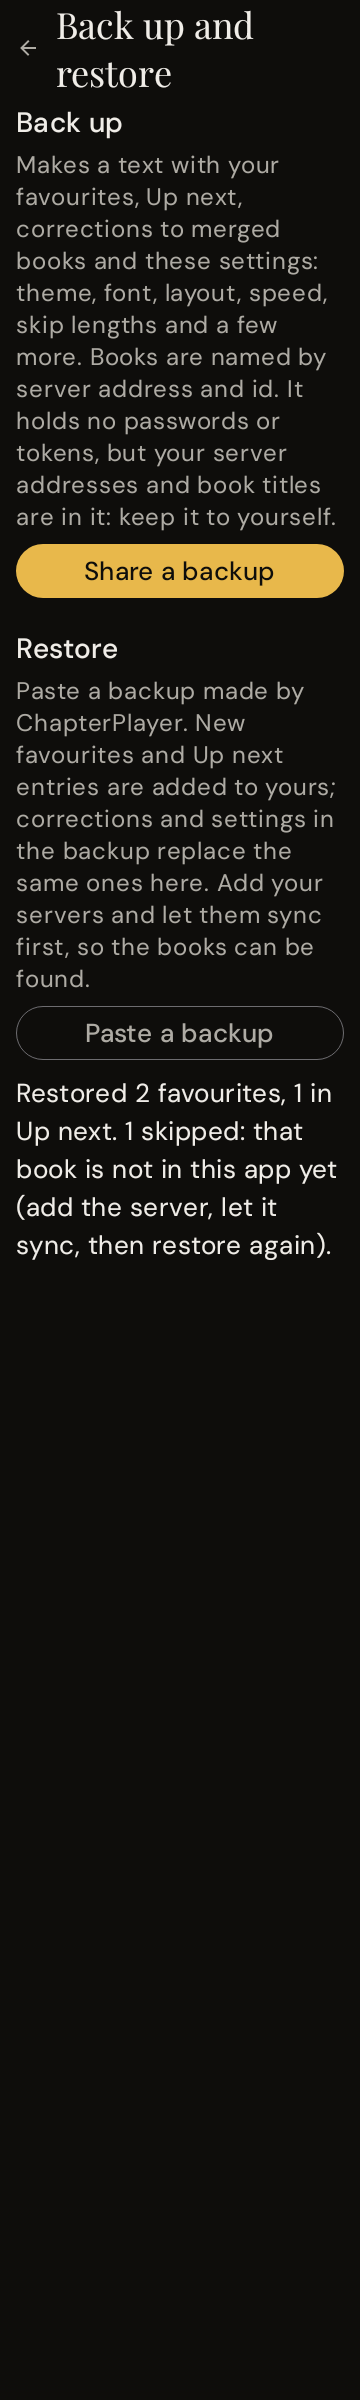
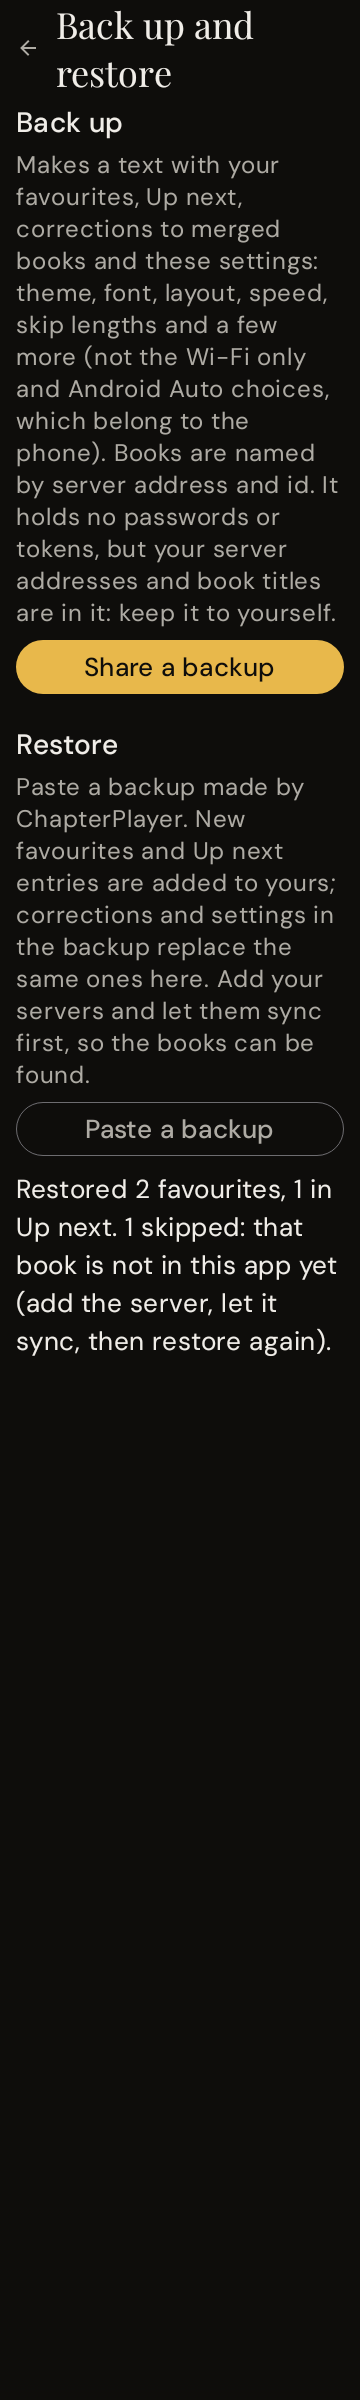
R27 review fixes: a text must name the backup format, corrections need an exact match, phone-bound settings stay out
Claude-Session: https://claude.ai/code/session_012y7soafHxywyzp4CSwQggB

Changed region(s): [[0.0306, 0.125, 0.9472, 0.5625]]

diff --git a/shared/src/commonMain/kotlin/com/chapterplayer/domain/backup/Backup.kt b/shared/src/commonMain/kotlin/com/chapterplayer/domain/backup/Backup.kt
@@ -2,6 +2,9 @@ package com.chapterplayer.domain.backup
 
 import kotlinx.serialization.Serializable
 import kotlinx.serialization.json.Json
+import kotlinx.serialization.json.JsonObject
+import kotlinx.serialization.json.JsonPrimitive
+import kotlinx.serialization.json.contentOrNull
 
 /** The name and version written at the top of every backup, so an import can tell what it was given. */
 const val BACKUP_FORMAT = "chapterplayer-backup"
@@ -27,14 +30,15 @@ data class BackupBook(
 /** A correction of the "same book on several servers" matching: [kind] is "SPLIT" or "MERGE". */
 @Serializable data class BackupCorrection(val a: BackupBook, val b: BackupBook, val kind: String)
 
-/** The simple settings that move between phones; a null field is left as it is on import. */
+/**
+ * The simple settings that move between phones; a null field is left as it is on import. Settings that belong to the
+ * phone (Wi-Fi only downloads, Android Auto resume) are not carried: a metered plan must not be flipped by a backup.
+ */
 @Serializable
 data class BackupSettings(
     val theme: String? = null,
     val font: String? = null,
     val libraryLayout: String? = null,
-    val resumeOnCarConnect: Boolean? = null,
-    val downloadWifiOnly: Boolean? = null,
     val playbackSpeed: Float? = null,
     val skipBackSeconds: Int? = null,
     val skipForwardSeconds: Int? = null,
@@ -68,11 +72,13 @@ sealed interface BackupParse {
 
 fun decodeBackup(text: String): BackupParse {
     val file = try {
+        // The format name must be written in the text itself: every field has a default, so `{}` would else pass.
+        val written = (BackupJson.parseToJsonElement(text.trim()) as? JsonObject)?.get("format")
+        if ((written as? JsonPrimitive)?.contentOrNull != BACKUP_FORMAT) return BackupParse.NotABackup
         BackupJson.decodeFromString(BackupFile.serializer(), text.trim())
     } catch (_: Exception) {
         return BackupParse.NotABackup
     }
-    if (file.format != BACKUP_FORMAT) return BackupParse.NotABackup
     if (file.version > BACKUP_VERSION) return BackupParse.TooNew(file.version)
     return BackupParse.Ok(file)
 }
@@ -89,9 +95,10 @@ class BookIndex(books: List<IndexedBook>) {
     private val byServerAndId = books.associateBy { it.serverKey to it.id }
     private val byTitleAndAuthor = books.groupBy { titleKey(it.title, it.author) }
 
-    fun resolve(ref: BackupBook): String? {
+    /** The local id for [ref]; [byTitle] false asks for an exact server and id match only. */
+    fun resolve(ref: BackupBook, byTitle: Boolean = true): String? {
         byServerAndId[ref.server to ref.id]?.let { return it.id }
-        if (ref.title.isBlank()) return null
+        if (!byTitle || ref.title.isBlank()) return null
         return byTitleAndAuthor[titleKey(ref.title, ref.author)]?.singleOrNull()?.id
     }
 
@@ -131,8 +138,9 @@ fun restorePlan(file: BackupFile, index: BookIndex, haveFavourites: Set<String>,
     }
     val corrections = mutableListOf<Triple<String, String, String>>()
     for (c in file.corrections) {
-        val a = index.resolve(c.a)
-        val b = index.resolve(c.b)
+        // A correction names a pair of copies: a guess by title could bind it to the wrong copies, so only exact matches count.
+        val a = index.resolve(c.a, byTitle = false)
+        val b = index.resolve(c.b, byTitle = false)
         if (a == null || b == null || a == b || c.kind !in CORRECTION_KINDS) { skipped++; continue }
         val (low, high) = if (a < b) a to b else b to a
         corrections.removeAll { it.first == low && it.second == high }

diff --git a/shared/src/commonMain/kotlin/com/chapterplayer/data/backup/BackupService.kt b/shared/src/commonMain/kotlin/com/chapterplayer/data/backup/BackupService.kt
@@ -25,6 +25,8 @@ import com.chapterplayer.domain.backup.decodeBackup
 import com.chapterplayer.domain.backup.encodeBackup
 import com.chapterplayer.domain.backup.restorePlan
 import com.chapterplayer.domain.backup.restoreSummary
+import com.chapterplayer.domain.playback.SKIP_BACK_CHOICES_SEC
+import com.chapterplayer.domain.playback.SKIP_FORWARD_CHOICES_SEC
 import com.chapterplayer.domain.backup.serverKey
 import kotlinx.coroutines.flow.first
 import kotlin.time.Clock
@@ -111,8 +113,6 @@ class BackupService(
         theme = settings.themeMode.first().name,
         font = settings.appFont.first().name,
         libraryLayout = settings.libraryLayout.first().name,
-        resumeOnCarConnect = settings.resumeOnCarConnect.first(),
-        downloadWifiOnly = settings.downloadWifiOnly.first(),
         playbackSpeed = settings.playbackSpeed.first(),
         skipBackSeconds = settings.skipBackSeconds.first(),
         skipForwardSeconds = settings.skipForwardSeconds.first(),
@@ -126,11 +126,10 @@ class BackupService(
         s.theme?.let { name -> ThemeMode.entries.firstOrNull { it.name == name }?.let { settings.setThemeMode(it); n++ } }
         s.font?.let { name -> AppFont.entries.firstOrNull { it.name == name }?.let { settings.setAppFont(it); n++ } }
         s.libraryLayout?.let { name -> LibraryLayout.entries.firstOrNull { it.name == name }?.let { settings.setLibraryLayout(it); n++ } }
-        s.resumeOnCarConnect?.let { settings.setResumeOnCarConnect(it); n++ }
-        s.downloadWifiOnly?.let { settings.setDownloadWifiOnly(it); n++ }
-        s.playbackSpeed?.let { settings.setPlaybackSpeed(it); n++ }
-        s.skipBackSeconds?.let { settings.setSkipBackSeconds(it); n++ }
-        s.skipForwardSeconds?.let { settings.setSkipForwardSeconds(it); n++ }
+        // Only a value the app would accept counts as restored (the setters ignore the rest).
+        s.playbackSpeed?.takeIf { !it.isNaN() }?.let { settings.setPlaybackSpeed(it); n++ }
+        s.skipBackSeconds?.takeIf { it in SKIP_BACK_CHOICES_SEC }?.let { settings.setSkipBackSeconds(it); n++ }
+        s.skipForwardSeconds?.takeIf { it in SKIP_FORWARD_CHOICES_SEC }?.let { settings.setSkipForwardSeconds(it); n++ }
         s.mirrorProgress?.let { settings.setMirrorProgress(it); n++ }
         s.crossSyncOnAdd?.let { settings.setCrossSyncOnAdd(it); n++ }
         return n

diff --git a/shared/src/commonTest/kotlin/com/chapterplayer/domain/backup/BackupTest.kt b/shared/src/commonTest/kotlin/com/chapterplayer/domain/backup/BackupTest.kt
@@ -32,6 +32,15 @@ class BackupTest {
         assertNull(index.resolve(ref("old.example", "zzz")))
     }
 
+    @Test fun `a correction needs an exact match and is skipped when only the title matches`() {
+        val file = BackupFile(
+            corrections = listOf(BackupCorrection(ref("old.example", "zzz", "The Second Book", "A. Writer"), ref("abs.example:13378", "b1"), "SPLIT")),
+        )
+        val plan = restorePlan(file, index, emptySet(), emptyList())
+        assertEquals(emptyList(), plan.corrections)
+        assertEquals(1, plan.skipped)
+    }
+
     @Test fun `server keys ignore scheme case and trailing slashes`() {
         assertEquals("host.example:1", serverKey("HTTPS://Host.Example:1/"))
         assertEquals(serverKey("http://host.example:1"), serverKey("https://host.example:1//"))
@@ -43,7 +52,7 @@ class BackupTest {
             favourites = listOf(BackupFavourite(ref("s", "b1", "T", "A"), 7L)),
             upNext = listOf(BackupQueued(ref("s", "b2"))),
             corrections = listOf(BackupCorrection(ref("s", "b1"), ref("s", "b2"), "SPLIT")),
-            settings = BackupSettings(theme = "DARK", skipBackSeconds = 30, resumeOnCarConnect = false),
+            settings = BackupSettings(theme = "DARK", skipBackSeconds = 30, mirrorProgress = false),
         )
         assertEquals(BackupParse.Ok(file), decodeBackup(encodeBackup(file)))
     }
@@ -51,6 +60,9 @@ class BackupTest {
     @Test fun `text that is not a backup is refused`() {
         assertEquals(BackupParse.NotABackup, decodeBackup(""))
         assertEquals(BackupParse.NotABackup, decodeBackup("hello"))
+        assertEquals(BackupParse.NotABackup, decodeBackup("{}"))
+        assertEquals(BackupParse.NotABackup, decodeBackup("{\"favourites\":[]}"))
+        assertEquals(BackupParse.NotABackup, decodeBackup("[1,2]"))
         assertEquals(BackupParse.NotABackup, decodeBackup("{\"format\":\"something-else\"}"))
         assertEquals(BackupParse.NotABackup, decodeBackup("{\"favourites\":[{\"oops\":1}]}"))
     }

diff --git a/shared/src/commonMain/kotlin/com/chapterplayer/ui/settings/BackupSettingsScreen.kt b/shared/src/commonMain/kotlin/com/chapterplayer/ui/settings/BackupSettingsScreen.kt
@@ -48,6 +48,7 @@ fun BackupSettingsScreen(onBack: () -> Unit, viewModel: BackupViewModel = koinVi
             }
         },
         onRestore = viewModel::restore,
+        onPasteOpened = viewModel::messageShown,
         onBack = onBack,
     )
 }
@@ -59,6 +60,7 @@ internal fun BackupSettingsContent(
     copiedNote: Boolean,
     onExport: () -> Unit,
     onRestore: (String) -> Unit,
+    onPasteOpened: () -> Unit,
     onBack: () -> Unit,
 ) {
     var pasting by remember { mutableStateOf(false) }
@@ -66,7 +68,7 @@ internal fun BackupSettingsContent(
         SectionTitle("Back up")
         Text(
             "Makes a text with your favourites, Up next, corrections to merged books and these settings: theme, font, " +
-                "layout, speed, skip lengths and a few more. Books are named by server address and id. It holds no " +
+                "layout, speed, skip lengths and a few more (not the Wi-Fi only and Android Auto choices, which belong to the phone). Books are named by server address and id. It holds no " +
                 "passwords or tokens, but your server addresses and book titles are in it: keep it to yourself.",
             style = MaterialTheme.typography.bodySmall,
             color = TextSecondary,
@@ -97,7 +99,7 @@ internal fun BackupSettingsContent(
         )
         Spacer(Modifier.height(12.dp))
         OutlinedButton(
-            onClick = { pasting = true },
+            onClick = { onPasteOpened(); pasting = true },
             enabled = !state.busy,
             modifier = Modifier.fillMaxWidth().heightIn(min = 52.dp),
         ) { Text("Paste a backup") }

diff --git a/shared/src/androidHostTest/kotlin/com/chapterplayer/data/backup/BackupServiceTest.kt b/shared/src/androidHostTest/kotlin/com/chapterplayer/data/backup/BackupServiceTest.kt
@@ -93,7 +93,9 @@ class BackupServiceTest {
         first.settings.setThemeMode(ThemeMode.LIGHT)
         first.settings.setAppFont(AppFont.entries.last())
         first.settings.setSkipBackSeconds(60)
+        first.settings.setPlaybackSpeed(1.75f)
         first.settings.setResumeOnCarConnect(false)
+        first.settings.setDownloadWifiOnly(false)
         val text = first.service.export()
 
         // Another install: its own server id for the same address, the same books.
@@ -108,8 +110,11 @@ class BackupServiceTest {
         assertEquals(listOf(BookMergeEntity("b1", "b2", "SPLIT")), second.merges.rows.value)
         assertEquals(ThemeMode.LIGHT, second.settings.theme.value)
         assertEquals(60, second.settings.skipBack.value)
-        assertFalse(second.settings.carResume.value)
-        assertTrue(done.summary.startsWith("Restored 1 favourite, 2 in Up next, 1 correction"), done.summary)
+        assertEquals(1.75f, second.settings.speed.value)
+        // The settings that belong to the phone stay as they were.
+        assertTrue(second.settings.carResume.value)
+        assertTrue(second.settings.wifiOnly.value)
+        assertTrue(done.summary.startsWith("Restored 1 favourite, 2 in Up next, 1 correction, 8 settings"), done.summary)
     }
 
     @Test

diff --git a/shared/src/androidHostTest/kotlin/com/chapterplayer/ui/screenshots/BackupSettingsScreenshotTest.kt b/shared/src/androidHostTest/kotlin/com/chapterplayer/ui/screenshots/BackupSettingsScreenshotTest.kt
@@ -32,7 +32,7 @@ class BackupSettingsScreenshotTest {
     private fun shot(name: String, theme: ThemeMode, fontScale: Float, state: BackupUiState) {
         compose.setContent {
             ScreenshotFrame(theme, fontScale, padded = false) {
-                BackupSettingsContent(state, copiedNote = false, onExport = {}, onRestore = {}, onBack = {})
+                BackupSettingsContent(state, copiedNote = false, onExport = {}, onRestore = {}, onPasteOpened = {}, onBack = {})
             }
         }
         compose.onRoot().captureRoboImage(screenshotPath(name), roborazziOptions = SCREENSHOT_OPTIONS)

diff --git a/docs/architecture/ui-theme-settings.md b/docs/architecture/ui-theme-settings.md
@@ -60,7 +60,7 @@ Detail moved out of `CLAUDE.md` (review R8); keep it current when this area chan
 ## Back up and restore (review R27)
 - Settings, Back up and restore (`BackupSettingsScreen`, `BackupViewModel`, route `settings/backup`) shares one JSON text and reads one back. The text goes through the system share sheet (`TextSharer`, else the clipboard); a restore is a pasted text. No file picker, so Android and iOS behave the same.
 - `BackupService` (`data/backup`) reads the DAOs and `AppSettings`; the format, the matching and the plan are pure code in `domain/backup/Backup.kt` (`BackupFile`, `BookIndex`, `restorePlan`), versioned (`BACKUP_VERSION`; a newer file is refused).
-- Version 1 holds favourites, Up next, the corrections of merged books and ten simple settings (theme, font, layout, car resume, Wi-Fi only, speed, skip lengths, mirror progress, cross sync on add). Not in it: statistics, the position of Plex-only books, per-book speeds, filters and source choices (they name this phone's server ids).
+- Version 1 holds favourites, Up next, the corrections of merged books and eight simple settings (theme, font, layout, speed, skip lengths, mirror progress, cross sync on add); the phone-bound Wi-Fi only and Android Auto resume are not carried. Not in it: statistics, the position of Plex-only books, per-book speeds, filters and source choices (they name this phone's server ids).
 - A book is named by `serverKey(baseUrl)` (no scheme, lower case) and its id, with title and author as the fallback when the address changed and only one book matches. No token and no id of this phone's servers is written.
 - Restore adds favourites and queue entries it does not have, upserts corrections and sets settings. Entries whose book is missing are counted and said ("add the server, let it sync, then restore again"). Not checked on a phone.
 
